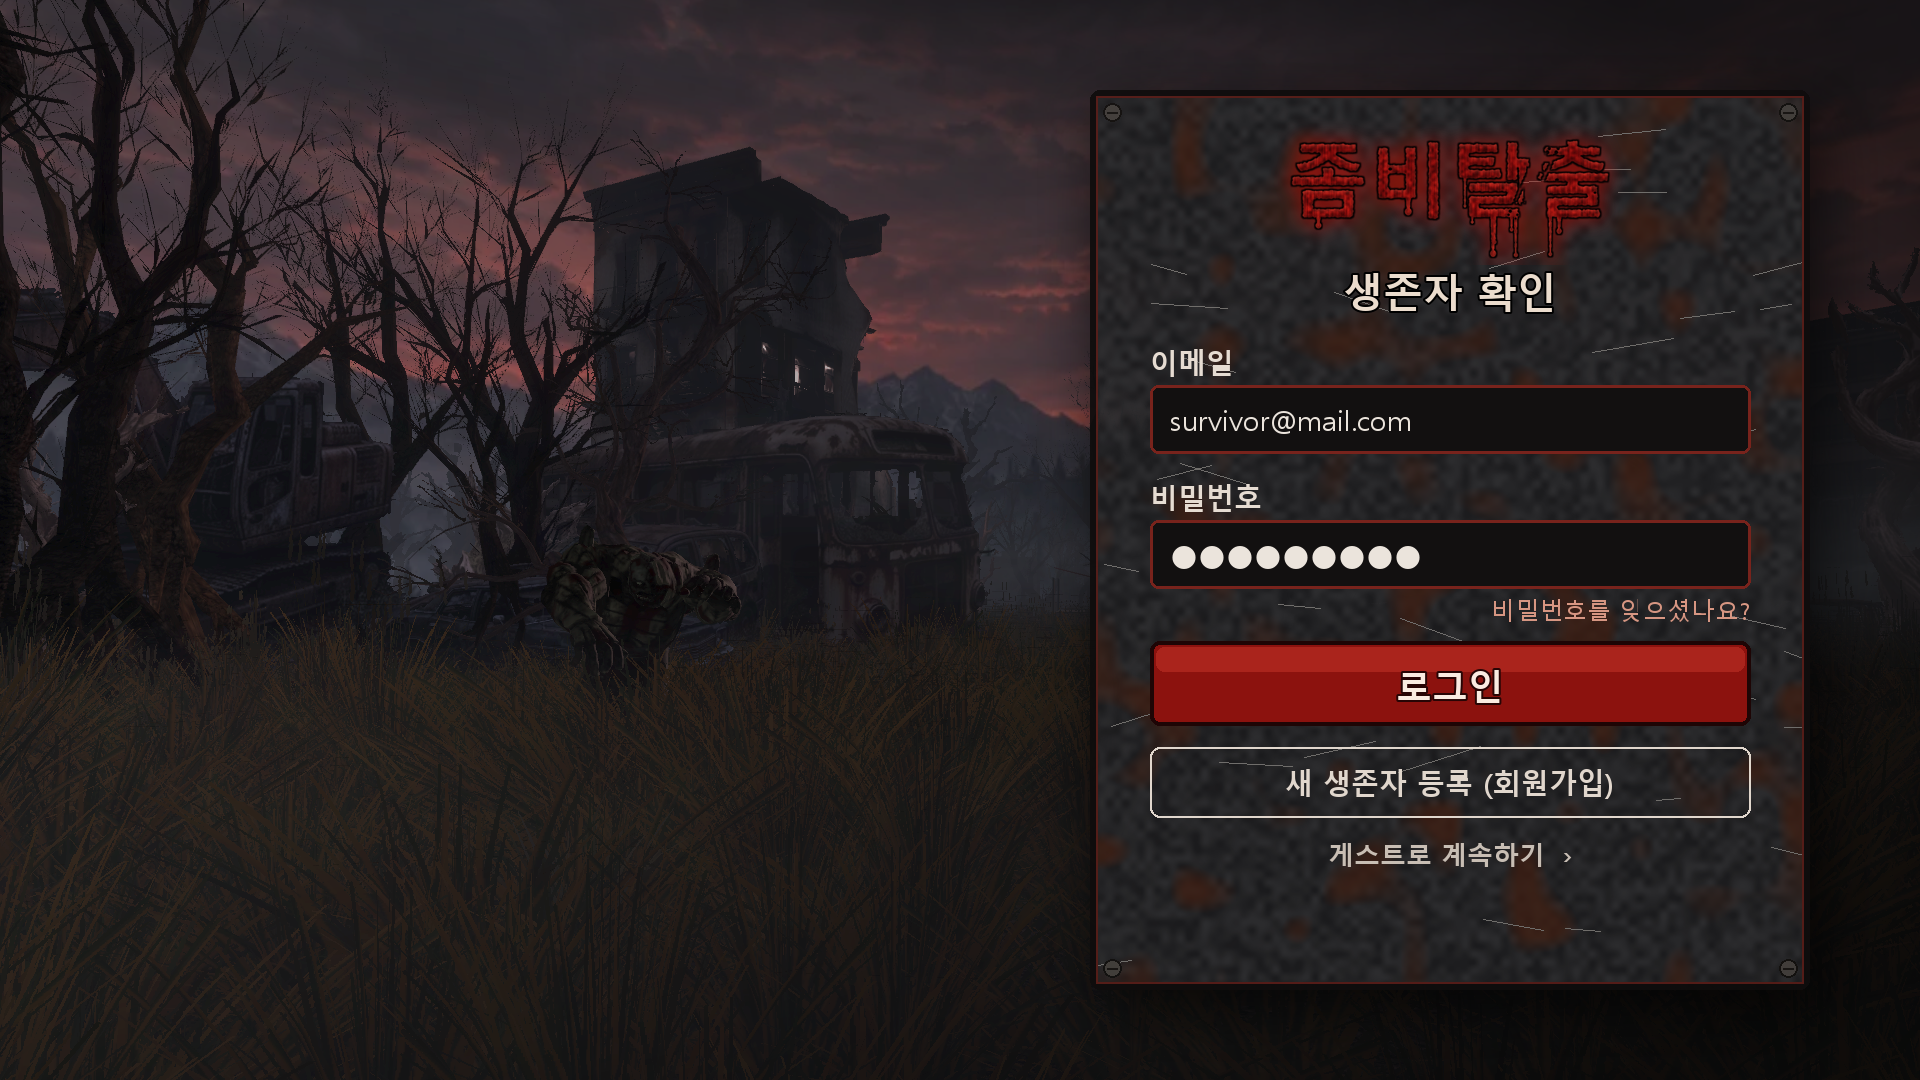
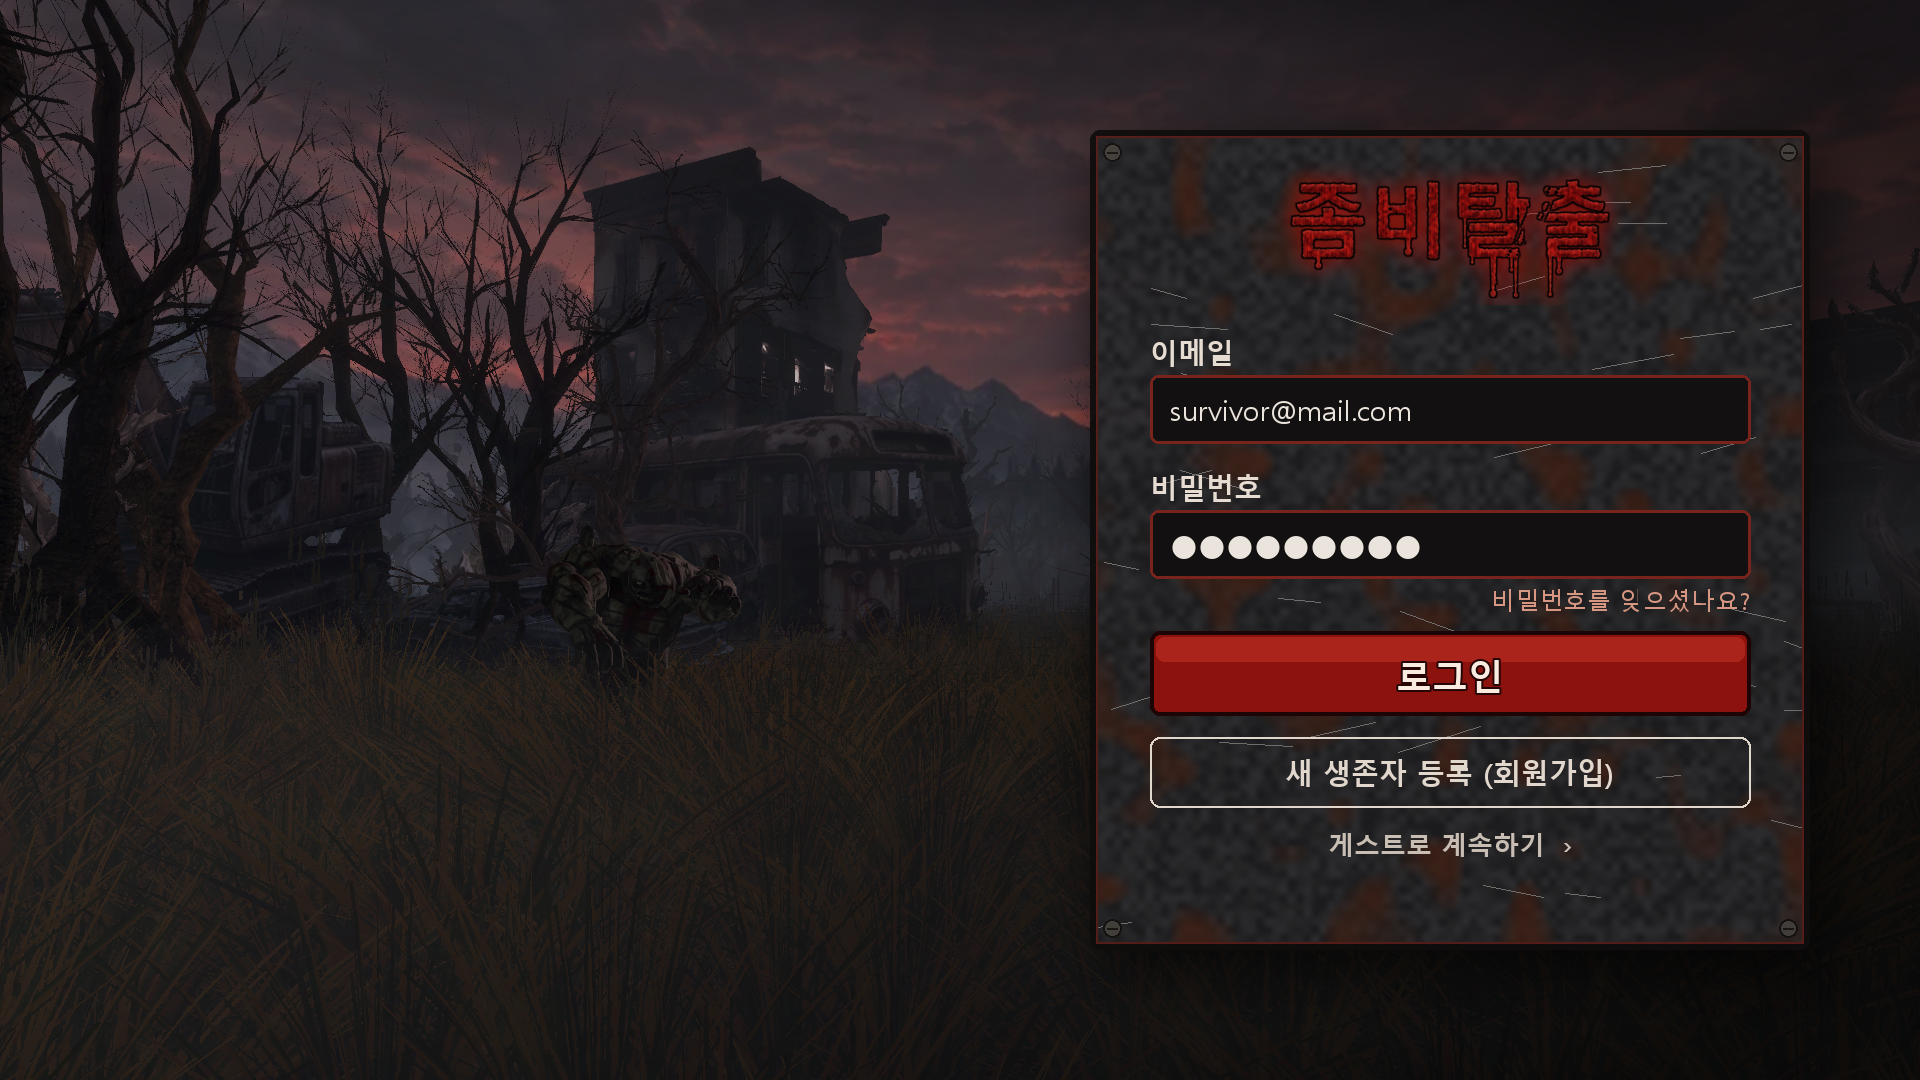
feat: 타이틀 글자 엇갈림·기울임, 로그인 제목 삭제, 4번째 계정(회원 관리) 화면 시안
- 타이틀: 좀↑ 비↓ 탈↑ 출↓ 로 엇갈리게 + 오른쪽으로 45% 기울임, 기울어 밀리는 만큼 미리 옮겨 간격을 고르게
- 로그인: "생존자 확인" 글자 빼고 판 높이 줄임
- account_mock.png: 숲속 폐차·불타는 드럼통 배경, 가죽 수첩·인식표 — 닉네임 바꾸기(F-108)·비밀번호 재설정(F-106)·로그아웃(F-103)·탈퇴(F-107)

Changed region(s): [[0.5938, 0.3056, 0.9375, 0.7944], [0.5625, 0.0611, 0.9375, 0.3056], [0.5625, 0.8556, 0.9375, 0.9167]]

diff --git a/art/title/make_account_screens.py b/art/title/make_account_screens.py
@@ -1,12 +1,13 @@
 """로그인(sign in)·회원가입(sign up) 화면 시안 — 주인: A (화면 구현은 C, PRD 4.11 F-100 - F-108). 그림만 만든다.
 타이틀과 같은 느낌(노을·안개·좀비, 핏빛 글자)으로, 두 화면은 배경과 판 모양을 다르게:
-  로그인  = 폐허 마을 배경 · 오른쪽에 녹슨 철판(볼트) "생존자 확인"
+  로그인  = 폐허 마을 배경 · 오른쪽에 녹슨 철판(볼트)
   회원가입 = 부서진 다리 배경 · 왼쪽에 피 묻은 종이 등록증(테이프) "생존자 등록"
 
 사용:
   godot --path godot --resolution 1920x1080 res://scenes/stage/title_art.tscn -- --out=art/previews/bg_in.png --dist=440 --yaw=20 --zombies=2
   godot --path godot --resolution 1920x1080 res://scenes/stage/title_art.tscn -- --out=art/previews/bg_up.png --dist=665 --yaw=-15 --zombies=3
-  python art/title/make_account_screens.py --bg-in art/previews/bg_in.png --bg-up art/previews/bg_up.png --out-dir art/title
+  godot --path godot --resolution 1920x1080 res://scenes/stage/title_art.tscn -- --out=art/previews/bg_acc.png --dist=230 --yaw=-25 --zombies=1
+  python art/title/make_account_screens.py --bg-in art/previews/bg_in.png --bg-up art/previews/bg_up.png --bg-acc art/previews/bg_acc.png --out-dir art/title
 글꼴: 맑은 고딕 (과제용 비상업 — 상용 전 OFL 글꼴로 교체, README)
 """
 import argparse
@@ -142,7 +143,7 @@ def shadow(img, box, r=30):
 
 def sign_in(bg):
     img = darken(bg, "right")
-    pw, ph = 720, 900
+    pw, ph = 720, 820
     px, py = W - pw - 110, (H - ph) // 2
     shadow(img, (px + 10, py + 20, px + pw + 10, py + ph + 20))
     img.alpha_composite(metal_panel((pw, ph), 3), (px, py))
@@ -150,8 +151,7 @@ def sign_in(bg):
     img.alpha_composite(lg, (px + (pw - lg.width) // 2, py + 26))
     d = ImageDraw.Draw(img)
     y = py + 34 + lg.height
-    d.text((px + pw // 2, y), "생존자 확인", font=f(40, True), fill=(235, 220, 205), anchor="mt", stroke_width=2, stroke_fill=(0, 0, 0))
-    y += 70
+    y += 20                                               # ("생존자 확인" 글자는 사용자 요청으로 뺌)
     x, w = px + 60, pw - 120
     y = field(d, x, y, w, "이메일", "survivor@mail.com", True)
     y = field(d, x, y, w, "비밀번호", "safehouse", True, password=True)
@@ -187,13 +187,79 @@ def sign_up(bg):
     return img
 
 
+def leather_panel(size, seed):
+    """계정 화면: 낡은 검은 가죽 수첩 — 가죽 결 + 박음질 테두리 + 긁힘."""
+    w, h = size
+    n1, n2 = noise(size, seed, 25), noise(size, seed + 1, 3)
+    base = np.array([34, 24, 20], np.float32) * (0.75 + 0.35 * n1[..., None]) + (n2[..., None] - 0.5) * 10
+    img = Image.fromarray(np.clip(base, 0, 255).astype("uint8")).convert("RGBA")
+    d = ImageDraw.Draw(img)
+    for i in range(0, w - 60, 22):                         # 박음질
+        d.line((30 + i, 26, 42 + i, 26), fill=(150, 120, 90), width=2)
+        d.line((30 + i, h - 26, 42 + i, h - 26), fill=(150, 120, 90), width=2)
+    for i in range(0, h - 60, 22):
+        d.line((26, 30 + i, 26, 42 + i), fill=(150, 120, 90), width=2)
+        d.line((w - 26, 30 + i, w - 26, 42 + i), fill=(150, 120, 90), width=2)
+    rng = np.random.default_rng(seed)
+    for _ in range(25):
+        x, y = rng.uniform(0, w), rng.uniform(0, h)
+        d.line((x, y, x + rng.uniform(15, 60), y + rng.uniform(-8, 8)), fill=(80, 62, 50, 120), width=1)
+    m = Image.new("L", size, 0)
+    ImageDraw.Draw(m).rounded_rectangle((0, 0, w - 1, h - 1), 22, fill=240)
+    img.putalpha(m)
+    return img
+
+
+def row(d, x, y, w, label, value, action=None, danger=False):
+    """한 줄: 왼쪽 이름·값, 오른쪽 작은 버튼."""
+    d.text((x, y), label, font=f(24, True), fill=(185, 165, 145))
+    d.text((x, y + 34), value, font=f(30, True), fill=(240, 228, 215))
+    if action:
+        bw = 190
+        col = (160, 25, 18) if danger else (95, 70, 50)
+        d.rounded_rectangle((x + w - bw, y + 14, x + w, y + 74), 10, fill=col, outline=(20, 10, 8), width=3)
+        d.text((x + w - bw // 2, y + 44), action, font=f(26, True), fill=(250, 238, 225), anchor="mm")
+    d.line((x, y + 96, x + w, y + 96), fill=(90, 70, 55), width=1)
+    return y + 112
+
+
+def account(bg):
+    """4번째 화면 — 계정(회원 관리): PRD F-103 로그아웃 · F-106 비밀번호 재설정 · F-107 탈퇴 · F-108 닉네임 변경."""
+    img = darken(bg, "right")
+    pw, ph = 760, 900
+    px, py = (W - pw) // 2 - 200, (H - ph) // 2
+    shadow(img, (px + 10, py + 20, px + pw + 10, py + ph + 20))
+    img.alpha_composite(leather_panel((pw, ph), 11), (px, py))
+    d = ImageDraw.Draw(img)
+    tx, ty = px + pw - 190, py + 40                        # 인식표 (생존자 표시)
+    d.line((tx + 20, ty - 60, tx + 70, ty + 6), fill=(160, 160, 165), width=3)
+    d.rounded_rectangle((tx, ty, tx + 140, ty + 80), 26, fill=(150, 152, 158), outline=(70, 70, 75), width=3)
+    d.text((tx + 70, ty + 40), "생존자", font=f(24, True), fill=(40, 40, 45), anchor="mm")
+    lg = logo(0.24)
+    img.alpha_composite(lg, (px + 60, py + 50))
+    d.text((px + 60, py + 60 + lg.height), "내 계정", font=f(44, True), fill=(240, 225, 210), stroke_width=2, stroke_fill=(0, 0, 0))
+    x, w = px + 60, pw - 120
+    y = py + 140 + lg.height
+    y = row(d, x, y, w, "닉네임", "(가입할 때 정한 닉네임)", "바꾸기")
+    y = row(d, x, y, w, "이메일", "(가입한 이메일)")
+    y = row(d, x, y, w, "비밀번호", "잊었을 때 메일로 다시 정하기", "메일 보내기")
+    y = row(d, x, y, w, "로그아웃", "로그아웃하면 새 게스트로 시작", "로그아웃")
+    y = row(d, x, y, w, "회원 탈퇴", "계정과 기록이 모두 지워집니다", "탈퇴", danger=True)
+    d.text((px + pw // 2, y + 6), "‹  돌아가기", font=f(28, True), fill=(210, 195, 180), anchor="mt")
+    return img
+
+
 def main():
     ap = argparse.ArgumentParser()
     ap.add_argument("--bg-in", required=True)
     ap.add_argument("--bg-up", required=True)
+    ap.add_argument("--bg-acc", default="")
     ap.add_argument("--out-dir", required=True)
     a = ap.parse_args()
-    for name, fn, bgp in (("signin_mock.png", sign_in, a.bg_in), ("signup_mock.png", sign_up, a.bg_up)):
+    jobs = [("signin_mock.png", sign_in, a.bg_in), ("signup_mock.png", sign_up, a.bg_up)]
+    if a.bg_acc:
+        jobs.append(("account_mock.png", account, a.bg_acc))
+    for name, fn, bgp in jobs:
         out = os.path.join(a.out_dir, name)
         fn(Image.open(bgp)).convert("RGB").save(out, optimize=True)
         print("ACCOUNT saved", out)

diff --git a/art/title/make_title.py b/art/title/make_title.py
@@ -16,13 +16,25 @@ from PIL import Image, ImageChops, ImageDraw, ImageFilter, ImageFont
 FONT = "C:/Windows/Fonts/malgunbd.ttf"
 TITLE = "좀비탈출"
 SUB = "ZOMBIE ESCAPE"
+SLANT = 0.45           # 오른쪽으로 45% 기울임 (약 24°)
 
 
-def rough_mask(size, text, font, seed):
-    """글자 모양 → 가장자리를 불규칙하게 갉아먹은 모양."""
+def rough_mask(size, text, font, seed, stagger=None):
+    """글자 모양 → 가장자리를 불규칙하게 갉아먹은 모양.
+    stagger = 글자마다 위아래로 옮길 거리(px) 목록 (예: [-60, 60, -60, 60] → 위·아래·위·아래)."""
     rng = np.random.default_rng(seed)
     m = Image.new("L", size, 0)
-    ImageDraw.Draw(m).text((size[0] // 2, size[1] // 2), text, font=font, fill=255, anchor="mm")
+    dm = ImageDraw.Draw(m)
+    if stagger:
+        gap = font.size * 0.30                         # 기울이면 이웃 글자와 겹쳐서 넉넉히
+        widths = [font.getlength(c) for c in text]
+        x = size[0] / 2 - (sum(widths) + gap * (len(text) - 1)) / 2
+        for c, w, dy in zip(text, widths, stagger):
+            # 오른쪽으로 기울이면 위로 올린 글자는 오른쪽으로 밀린다 → 미리 반대로 옮겨 간격을 고르게
+            dm.text((x + w / 2 + SLANT * dy, size[1] // 2 + dy), c, font=font, fill=255, anchor="mm")
+            x += w + gap
+    else:
+        dm.text((size[0] // 2, size[1] // 2), text, font=font, fill=255, anchor="mm")
     # 잡음으로 가장자리 흔들기: 흐림 → 잡음 더하기 → 다시 자르기
     noise = Image.fromarray((rng.random((size[1] // 6, size[0] // 6)) * 255).astype("uint8")).resize(size, Image.BICUBIC)
     blur = m.filter(ImageFilter.GaussianBlur(3))
@@ -97,9 +109,9 @@ def blood_fill(size, seed):
     return Image.fromarray(np.clip(rgb, 0, 255).astype("uint8"), "RGB")
 
 
-def title_layer(size, text, font, seed, depth=0):
+def title_layer(size, text, font, seed, depth=0, stagger=None):
     """depth > 0 이면 글자를 뒤쪽 아래로 밀어낸 두께(입체)를 깐다."""
-    m, bbox = rough_mask(size, text, font, seed)
+    m, bbox = rough_mask(size, text, font, seed, stagger)
     m = drips(m, bbox, seed + 1)
     m = scratches(m, bbox, seed + 2)
     fill = blood_fill(size, seed + 3).convert("RGBA")
@@ -158,12 +170,16 @@ def main():
     arr[..., 0] *= 1.06
     bg = Image.fromarray(np.clip(arr, 0, 255).astype("uint8"), "RGBA")
 
-    # 제목: 글자 크기 2배(240 → 480). 그대로면 폭이 화면을 넘어서 가로만 80% 로 눌러 맞춘다. 두께(입체) 26 칸
+    # 제목: 글자 크기 2배(480), 입체(두께 26 칸)
+    #   글자마다 위·아래·위·아래로 엇갈리게 (좀↑ 비↓ 탈↑ 출↓, 사용자 요청 2026-09-30)
+    #   오른쪽으로 45% 기울임 (윗부분이 오른쪽으로 — 가로 밀림 = 높이 × 0.45)
     font = ImageFont.truetype(FONT, 480)
-    big_w = int(W / 0.8)
-    t = title_layer((big_w, 900), TITLE, font, seed=13, depth=26)
-    t = t.resize((W, 900), Image.LANCZOS)
-    bg.alpha_composite(t, (0, -95))
+    big_w, big_h = int(W / 0.6), 1150
+    t = title_layer((big_w, big_h), TITLE, font, seed=13, depth=26, stagger=[-85, 85, -85, 85])
+    k = SLANT
+    t = t.transform((big_w, big_h), Image.AFFINE, (1, k, -k * big_h / 2, 0, 1, 0), resample=Image.BICUBIC)
+    t = t.resize((W, int(big_h * 0.62)), Image.LANCZOS)
+    bg.alpha_composite(t, (0, -70))
     # 부제 (영문) — 작고 가는 흰 글씨, 살짝 긁힘
     sub = Image.new("RGBA", (W, 120), (0, 0, 0, 0))
     sd = ImageDraw.Draw(sub)

diff --git a/art/title/README.md b/art/title/README.md
@@ -8,7 +8,7 @@
 | `title_zombie_escape_logo.png` | 제목 글자만 (투명 배경) — C 가 타이틀 화면에 배경·버튼과 따로 올려 쓰도록 |
 
 - 배경: `godot/scenes/stage/title_art.tscn` 으로 **팀 스테이지 맵의 탈출 지점(요새 정문·투광등)** 앞에서 좀비 5마리가 다가오는 장면을 찍었다
-- 제목: 굵은 한글 글꼴(480, 가로 80% 로 눌러 화면에 맞춤) → 두께(입체)·바닥 그림자 → 가장자리를 갉아먹듯 거칠게 → 핏물 흘러내림 → 손톱 긁힘 → 녹슨 핏빛 질감 → 어두운 테두리·붉은 빛 (`make_title.py`)
+- 제목: 굵은 한글 글꼴(480), 좀↑비↓탈↑출↓ 로 엇갈리게, 오른쪽으로 45% 기울임 → 두께(입체)·바닥 그림자 → 가장자리를 갉아먹듯 거칠게 → 핏물 흘러내림 → 손톱 긁힘 → 녹슨 핏빛 질감 → 어두운 테두리·붉은 빛 (`make_title.py`)
 - 게임 이름 "좀비탈출" 은 사용자가 정했다 (PRD 는 아직 "가칭 · 정식 게임명 미정" — 팀 확인 필요)
 
 ## 로그인·회원가입 화면 시안 (PRD 4.11, 화면 구현은 C)
@@ -16,8 +16,10 @@
 
 | 파일 | 배경 | 판 | 들어간 것 (PRD) |
 |---|---|---|---|
-| `signin_mock.png` | 폐허 마을 (달린 거리 440 m) | 오른쪽 녹슨 철판·볼트 "생존자 확인" | 이메일·비밀번호(F-102), 비밀번호 찾기(F-106), 로그인, 회원가입으로, 게스트로 계속(F-100) |
+| `signin_mock.png` | 폐허 마을 (달린 거리 440 m) | 오른쪽 녹슨 철판·볼트 | 이메일·비밀번호(F-102), 비밀번호 찾기(F-106), 로그인, 회원가입으로, 게스트로 계속(F-100) |
 | `signup_mock.png` | 부서진 다리 (665 m) | 왼쪽 피 묻은 종이 등록증 "생존자 등록" | 닉네임 빈칸·안내 글(F-108), 이메일, 비밀번호 8자 이상·확인(F-104), 오류 안내 예 "이미 가입된 이메일입니다"(F-104), "게스트 기록이 이어집니다"(F-101) |
+
+| `account_mock.png` (4번째) | 숲속 폐차·불타는 드럼통 (230 m) | 가운데 낡은 가죽 수첩 + 인식표 "내 계정" | 닉네임 바꾸기(F-108), 이메일 표시, 비밀번호 재설정 메일(F-106), 로그아웃 → 새 게스트(F-103), 회원 탈퇴(F-107, 빨간 버튼) |
 
 - 입력칸 글자(예: survivor@mail.com)는 모양을 보이려는 **예시 값**이다
 - 다시 만들기: `make_account_screens.py` 위쪽 주석의 명령 3줄
